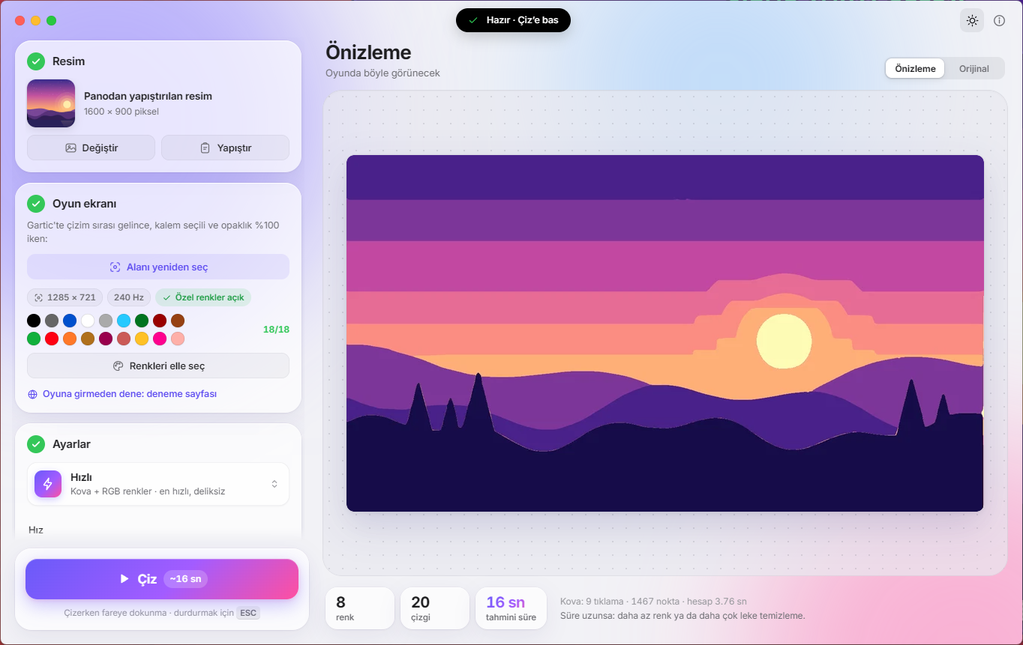
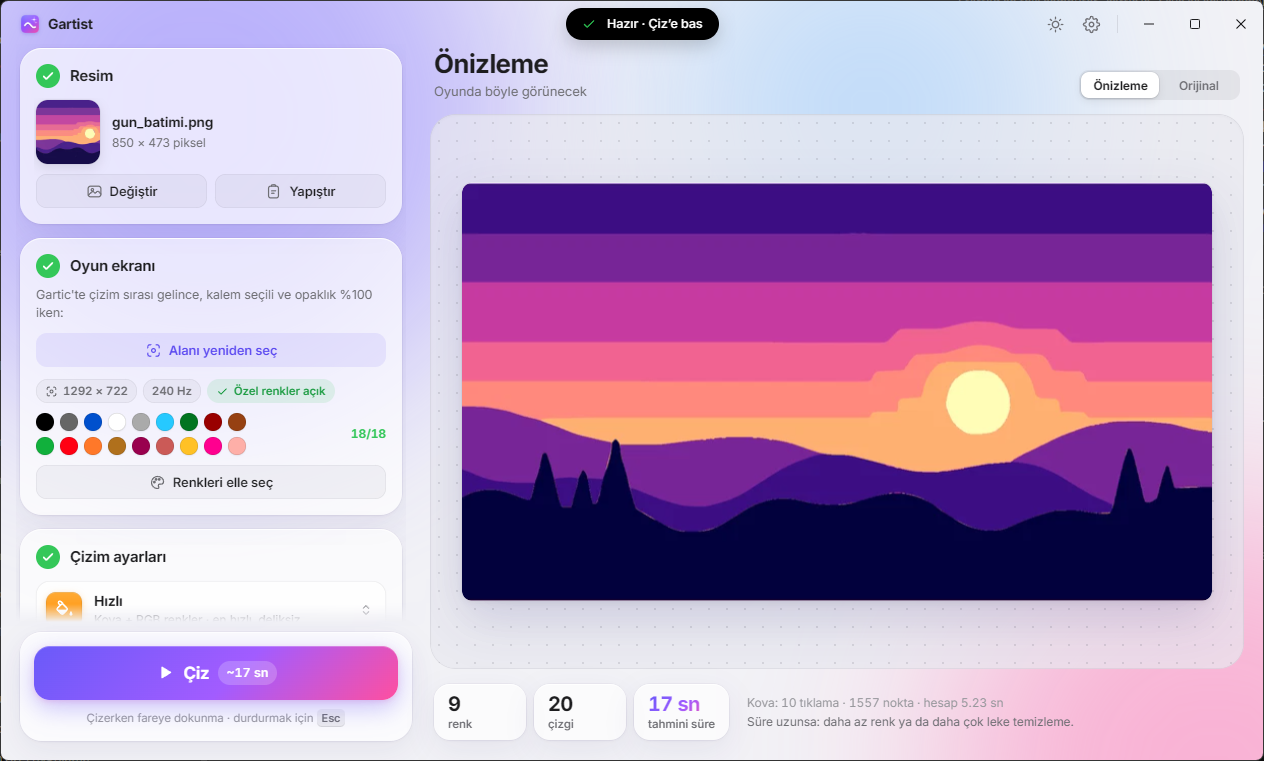
Gartist: yeni ad, yeni ekran görüntüleri
Uygulamanın yeni adı Gartist (eski adı Gartic Çizici). İndirme dosyası
yine GarticCizici.exe. README yeni arayüze, ayarlara ve geri sayımlı
durum kartına göre güncellendi; tüm ekran görüntüleri yenilendi.

diff --git a/README.md b/README.md
@@ -1,15 +1,15 @@
-# Gartic Çizici
+# Gartist
 
 Bir resmi Gartic Phone'un çizim alanına **gerçek fare hareketleriyle** çizer. Oyuna eklenti ya da hile kodu
-yüklemez; fareyi ve klavye kısayollarını senin yerine kullanır.
+yüklemez; fareyi ve klavye kısayollarını senin yerine kullanır. *(Eski adı: Gartic Çizici.)*
 
-### [⬇ GarticCizici.exe'yi indir](https://github.com/unsalable/gartic-cizici-indir/releases/latest/download/GarticCizici.exe)
+### [⬇ Gartist'i indir (GarticCizici.exe)](https://github.com/unsalable/gartist-indir/releases/latest/download/GarticCizici.exe)
 
-![Gartic Çizici](docs/arayuz.png)
+![Gartist](docs/arayuz.png)
 
 ## Kurulum
 1. Yukarıdaki bağlantıdan `GarticCizici.exe`'yi indir ve çift tıkla.
-2. Uygulama kendini kurar; **Masaüstü** ve **Başlat menüsüne** "Gartic Çizici" kısayolu koyar.
+2. Uygulama kendini kurar; **Masaüstü** ve **Başlat menüsüne** "Gartist" kısayolu koyar.
 3. Güncellemeler otomatik: yeni sürüm çıkınca uygulama onu kendiliğinden indirip kurar.
 
 > Windows "bilgisayarınızı korudu" derse: **Ek bilgi → Yine de çalıştır** (exe imzalı değil, yalnızca ilk seferde).
@@ -19,14 +19,27 @@ Gereksinim: Windows 10 veya 11. Başka hiçbir şey kurman gerekmez.
 ## Kullanım
 1. **Resim** — "Resim seç", pencereye sürükle-bırak ya da tarayıcıda resmi kopyalayıp **Ctrl+V**.
 2. **Oyun ekranı** — Gartic'te çizim sırası gelince **"Çizim alanını seç"**, yeşil çerçeve doğruysa **Enter**.
-3. **Ayarlar** — önizleme oyundaki sonucu ve tahmini süreyi gösterir. Önerilen mod: **Hızlı**.
-4. **Çiz** — çizerken fareye dokunma; durdurmak için **ESC**.
+3. **Çizim ayarları** — önizleme oyundaki sonucu ve tahmini süreyi gösterir. Önerilen mod: **Hızlı**.
+4. **Çiz** — çizerken fareye dokunma; durdurmak için **Esc**.
 
-Başlık çubuğunun ortasındaki ada her zaman sıradaki adımı söyler.
+Başlık çubuğunun ortasındaki ada her zaman sıradaki adımı söyler. Çizerken ekranın köşesindeki kart
+**kaç saniye kaldığını**, yüzdeyi ve sıradaki rengi gösterir.
 
-![Çizim sırasında](docs/durum.png)
+![Çizim sırasında durum kartı](docs/durum.png)
 
-![Gerçek Gartic'te Hızlı modla çizim](docs/gartic_hizli.png)
+## Ayarlar
+Sağ üstteki ⚙ düğmesinden:
+- **Dil:** Türkçe / English.
+- **Görünüm:** Açık / Koyu / Sistem.
+- **Performans:** zayıf bilgisayarlar için *Hafif*, çoğu bilgisayar için *Dengeli*, güçlü bilgisayarlar için *Yüksek*;
+  donanım hızlandırma (ekran kartı) açılıp kapatılabilir, uygulamanın anlık işlemci ve bellek kullanımı görünür.
+- **Kısayollar:** resim açma, yapıştırma, alan seçme, çizme ve çizimi durdurma tuşları değiştirilebilir.
+
+![Ayarlar](docs/ayarlar.png)
+
+![Çizim modları](docs/modlar.png)
+
+![Gerçek Gartic'te Hızlı modla çizilmiş gün batımı](docs/gartic_hizli.png)
 
 ![Koyu görünüm](docs/arayuz_koyu.png)
 
